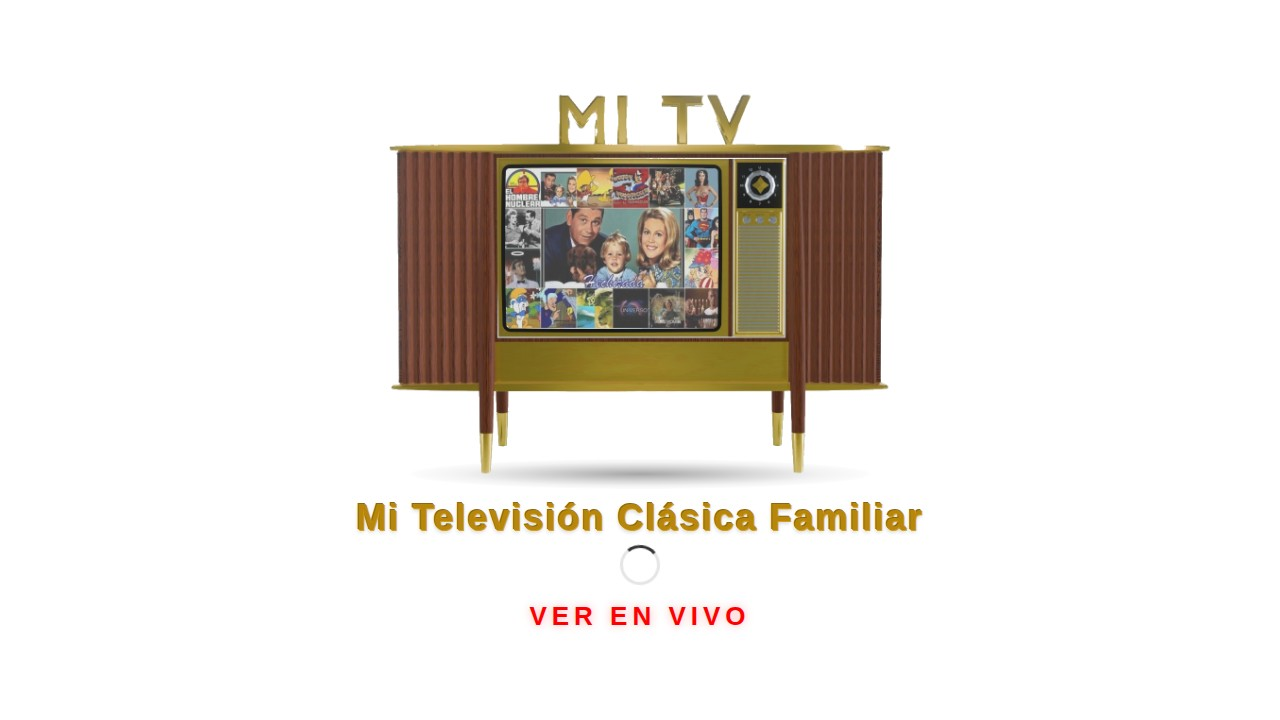
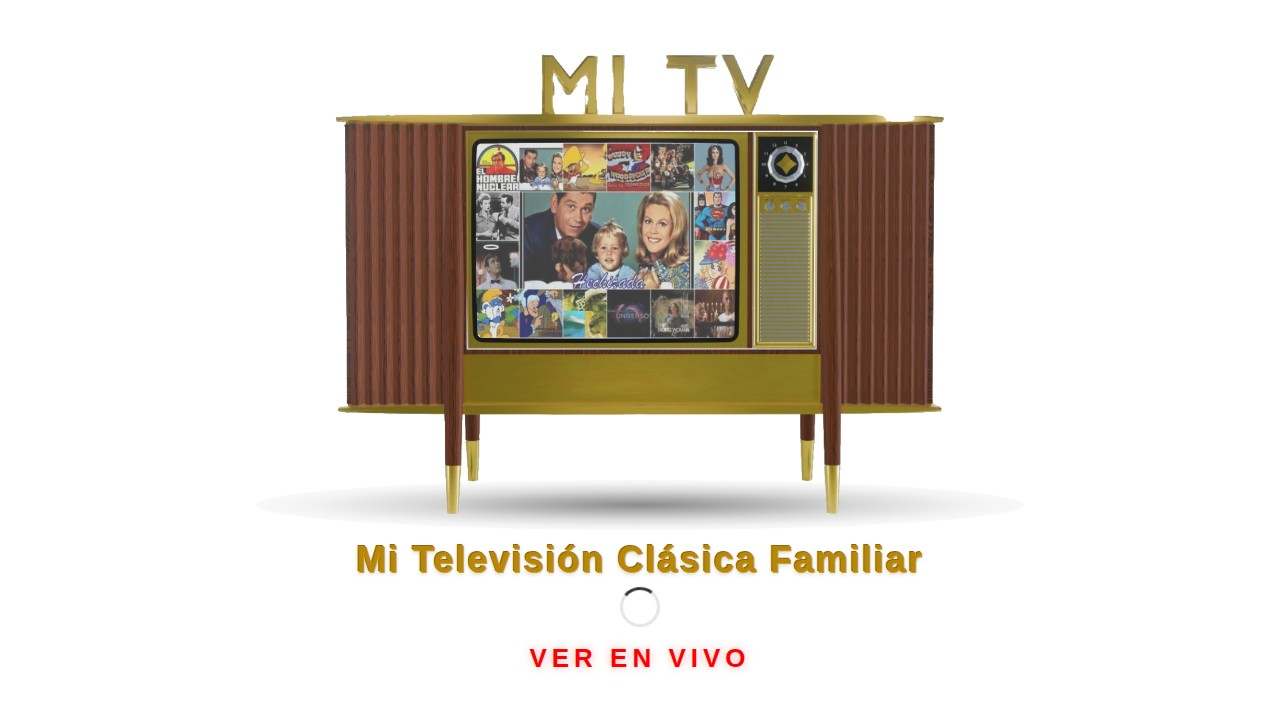
Bigger TV + stronger floor shadow matching website reference

Changed region(s): [[0.25, 0.0611, 0.75, 0.9472]]

diff --git a/css/style.css b/css/style.css
@@ -56,7 +56,7 @@ body {
 }
 
 #loading-screen .logo-container {
-    width: 760px;
+    width: 920px;
     height: auto;
     margin-bottom: 20px;
     position: relative;
@@ -65,11 +65,11 @@ body {
 #loading-screen .logo-container::after {
     content: '';
     position: absolute;
-    bottom: -10px;
-    left: 5%;
-    width: 90%;
-    height: 40px;
-    background: radial-gradient(ellipse at center, rgba(0, 0, 0, 0.35) 0%, rgba(0, 0, 0, 0.15) 35%, rgba(0, 0, 0, 0.05) 55%, transparent 75%);
+    bottom: -8px;
+    left: -12%;
+    width: 124%;
+    height: 70px;
+    background: radial-gradient(ellipse at center, rgba(0, 0, 0, 0.45) 0%, rgba(0, 0, 0, 0.30) 20%, rgba(0, 0, 0, 0.15) 40%, rgba(0, 0, 0, 0.05) 60%, transparent 80%);
     border-radius: 50%;
     z-index: 0;
 }
